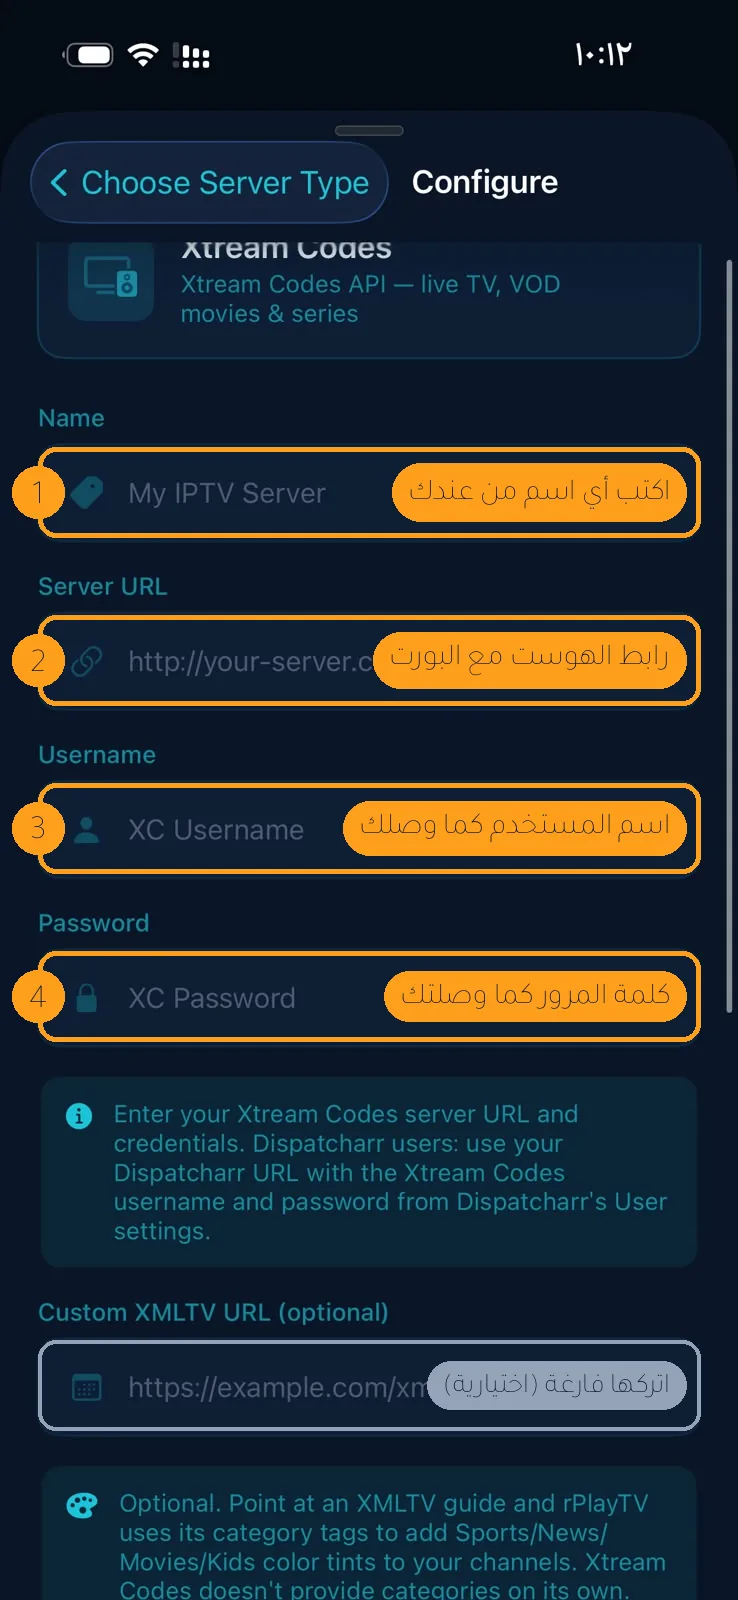
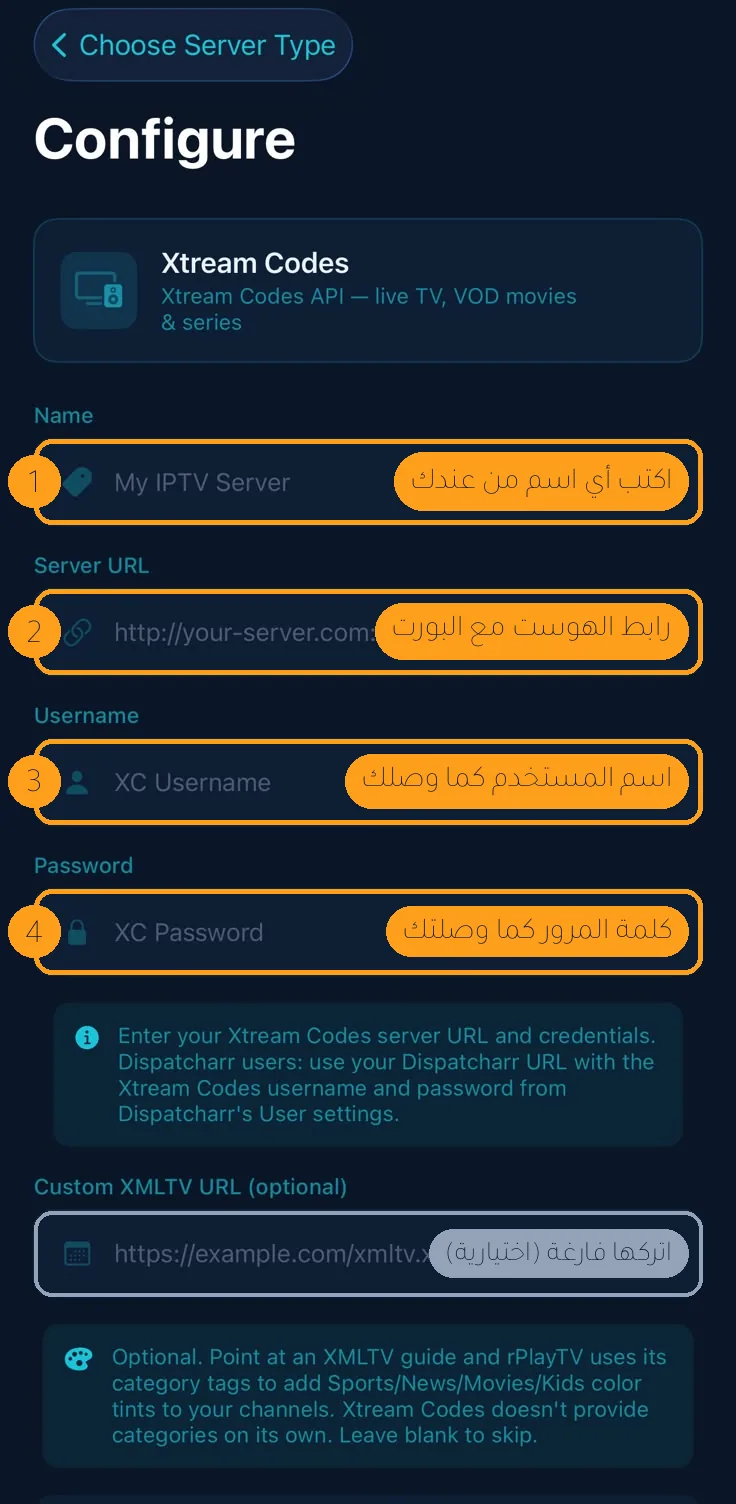
Guide (CarPlay): Test Connection → Save Playlist step, screenshots without the status bar
Replaces the two rPlay TV screenshots with versions that carry no clock
or status bar, and adds a step with the two screens that follow the
form: Test Connection, the Connected successfully message, then Save
Playlist. The username typed in those screens is masked in the images.

Claude-Session: https://claude.ai/code/session_01WVBbTeepncPwaJTUxDbkXp

diff --git a/blog/carplay-rplaytv.html b/blog/carplay-rplaytv.html
@@ -36,13 +36,23 @@
     <tr style="background:#f8fafc"><td style="padding:9px 12px;border:1px solid #e5e7eb" dir="ltr"><b>Username</b></td><td style="padding:9px 12px;border:1px solid #e5e7eb">اسم المستخدم</td></tr>
     <tr><td style="padding:9px 12px;border:1px solid #e5e7eb" dir="ltr"><b>Password</b></td><td style="padding:9px 12px;border:1px solid #e5e7eb">كلمة المرور</td></tr>
   </table>
-  <p>اترك خانة <b dir="ltr">Custom XMLTV URL</b> فارغة فهي اختيارية، ثم احفظ وانتظر ثوانٍ حتى تُحمَّل القنوات على الجوال.</p>
+  <p>اترك خانة <b dir="ltr">Custom XMLTV URL</b> فارغة فهي اختيارية.</p>
   <p style="text-align:center;margin:12px 0 4px"><img src="https://guide.ssouq.com/static/img/carplay-rplay-xtream.webp" alt="شاشة إدخال بيانات Xtream Codes في rPlay TV" style="max-width:320px;width:100%;height:auto;border-radius:18px;border:1px solid #e5e7eb"></p>
   <div style="background:#fffbeb;border-right:4px solid #f59e0b;border-radius:10px;padding:12px 16px;margin:10px 0 0;font-size:15px">
     بيانات اشتراكك تجدها في <a href="https://ssouq.com/account/orders" style="color:#0e7490">صفحة طلباتك</a> بالمتجر: افتح طلبك ثم اضغط <b>المحتوى الرقمي</b>، فالبيانات لا تظهر قبل الضغط عليه. ورابط الهوست يُكتب كما هو مع رقم البورت وبدون مسافات.
   </div>
 
-  <h2 style="font-size:22px;margin:26px 0 10px;color:#0b1526">الخطوة 4 — شغّله من شاشة السيارة</h2>
+  <h2 style="font-size:22px;margin:26px 0 10px;color:#0b1526">الخطوة 4 — اضغط Test Connection ثم Save Playlist</h2>
+  <p>انزل إلى أسفل الشاشة واضغط <b dir="ltr">Test Connection</b>. إن كانت البيانات صحيحة تظهر رسالة <b dir="ltr">Connected successfully</b> وتحتها اسم المستخدم، فاضغط بعدها <b dir="ltr">Save Playlist</b> وانتظر ثوانٍ حتى تُحمَّل القنوات على الجوال.</p>
+  <p style="text-align:center;margin:12px 0 4px">
+    <img src="https://guide.ssouq.com/static/img/carplay-rplay-test.webp" alt="زر Test Connection في rPlay TV" style="max-width:320px;width:100%;height:auto;border-radius:18px;border:1px solid #e5e7eb;margin:4px">
+    <img src="https://guide.ssouq.com/static/img/carplay-rplay-save.webp" alt="رسالة Connected successfully ثم زر Save Playlist" style="max-width:320px;width:100%;height:auto;border-radius:18px;border:1px solid #e5e7eb;margin:4px">
+  </p>
+  <div style="background:#fffbeb;border-right:4px solid #f59e0b;border-radius:10px;padding:12px 16px;margin:10px 0 0;font-size:15px">
+    لم يظهر <b dir="ltr">Connected successfully</b>؟ راجع رابط الهوست مع البورت واسم المستخدم وكلمة المرور حرفًا حرفًا، فأكثر الأخطاء مسافة زائدة أو حرف ناقص.
+  </div>
+
+  <h2 style="font-size:22px;margin:26px 0 10px;color:#0b1526">الخطوة 5 — شغّله من شاشة السيارة</h2>
   <ol style="padding-right:22px;margin:0 0 10px">
     <li>وصّل الآيفون بالسيارة كما تفعل مع الخرائط: بالكيبل أو لاسلكيًا.</li>
     <li>على شاشة السيارة تظهر أيقونة <b dir="ltr">rPlay TV</b> بين تطبيقات CarPlay. إن لم تجدها في الصفحة الأولى فاسحب إلى الصفحة التالية.</li>

diff --git a/index.html b/index.html
@@ -566,7 +566,9 @@ const DEVICES = {
         + '<div class="f"><span dir="ltr">Server URL</span><code>رابط الهوست مع البورت</code></div>'
         + '<div class="f"><span dir="ltr">Username</span><code>اسم المستخدم</code></div>'
         + '<div class="f"><span dir="ltr">Password</span><code>كلمة المرور</code></div></div>'
-        + '<p>اترك خانة <b dir="ltr">Custom XMLTV URL</b> فارغة فهي اختيارية، ثم احفظ وانتظر ثوانٍ حتى تُحمَّل القنوات على الجوال.</p><div class="note">رابط الهوست يصلك مع بيانات الاشتراك ويبدأ بـ http ويُكتب كما هو مع رقم البورت، مثل <code dir="ltr">http://host.com:8080</code>، بدون مسافات.</div>' + CREDS },
+        + '<p>اترك خانة <b dir="ltr">Custom XMLTV URL</b> فارغة فهي اختيارية.</p><div class="note">رابط الهوست يصلك مع بيانات الاشتراك ويبدأ بـ http ويُكتب كما هو مع رقم البورت، مثل <code dir="ltr">http://host.com:8080</code>، بدون مسافات.</div>' + CREDS },
+    { title: "اضغط Test Connection ثم Save Playlist", img: "/static/img/carplay-rplay-test.webp",
+      html: '<p>انزل إلى أسفل الشاشة واضغط <b dir="ltr">Test Connection</b>. إن كانت البيانات صحيحة تظهر رسالة <b dir="ltr">Connected successfully</b> وتحتها اسم المستخدم.</p><img src="/static/img/carplay-rplay-save.webp" alt="رسالة Connected successfully ثم زر Save Playlist" loading="lazy"><p>ثم اضغط <b dir="ltr">Save Playlist</b> وانتظر ثوانٍ حتى تُحمَّل القنوات على الجوال.</p><div class="note">لم يظهر <b dir="ltr">Connected successfully</b>؟ راجع رابط الهوست مع البورت واسم المستخدم وكلمة المرور حرفًا حرفًا، فأكثر الأخطاء مسافة زائدة أو حرف ناقص.</div>' },
     { title: "شغّله من شاشة السيارة",
       html: '<ol><li>وصّل الآيفون بالسيارة كما تفعل مع الخرائط: بالكيبل أو لاسلكيًا.</li><li>على شاشة السيارة تظهر أيقونة <b dir="ltr">rPlay TV</b> بين تطبيقات CarPlay — إن لم تجدها في الصفحة الأولى فاسحب إلى الصفحة التالية.</li><li>افتحه واختر القناة من القائمة أو من المفضلة، فيعمل البث من اشتراكك نفسه بلا إدخال بيانات مرة أخرى.</li></ol><div class="note">الصورة تظهر على شاشة السيارة <b>والسيارة متوقفة</b> — هذا شرط من آبل لا من التطبيق، وعند الحركة تُوقف أكثر السيارات الصورة وتُبقي الصوت. والبث يستهلك من بيانات جوالك، فاحسب باقة الإنترنت.</div>' }
   ]}
